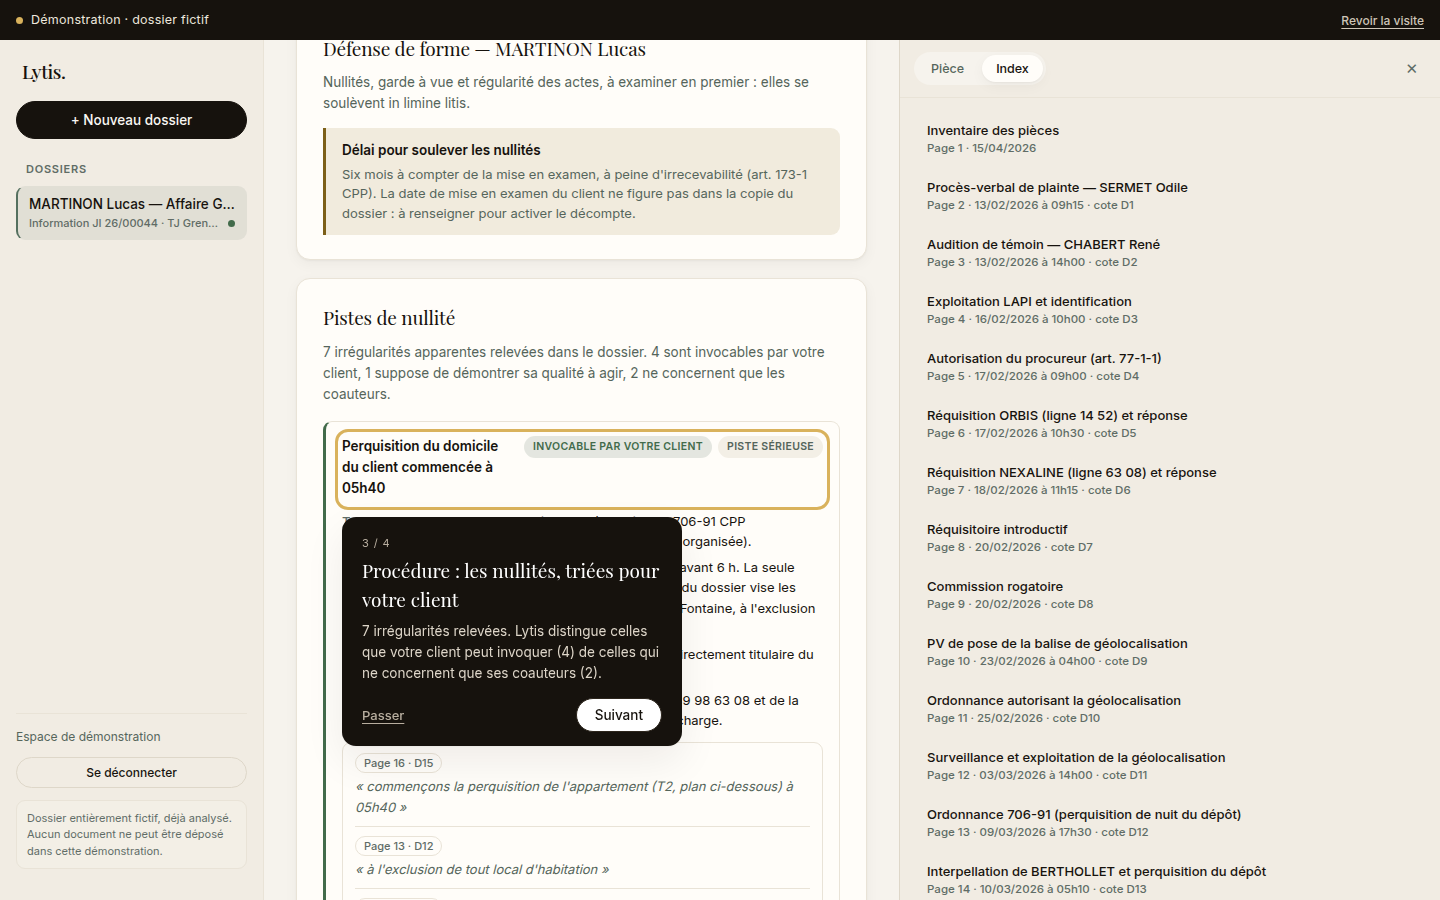
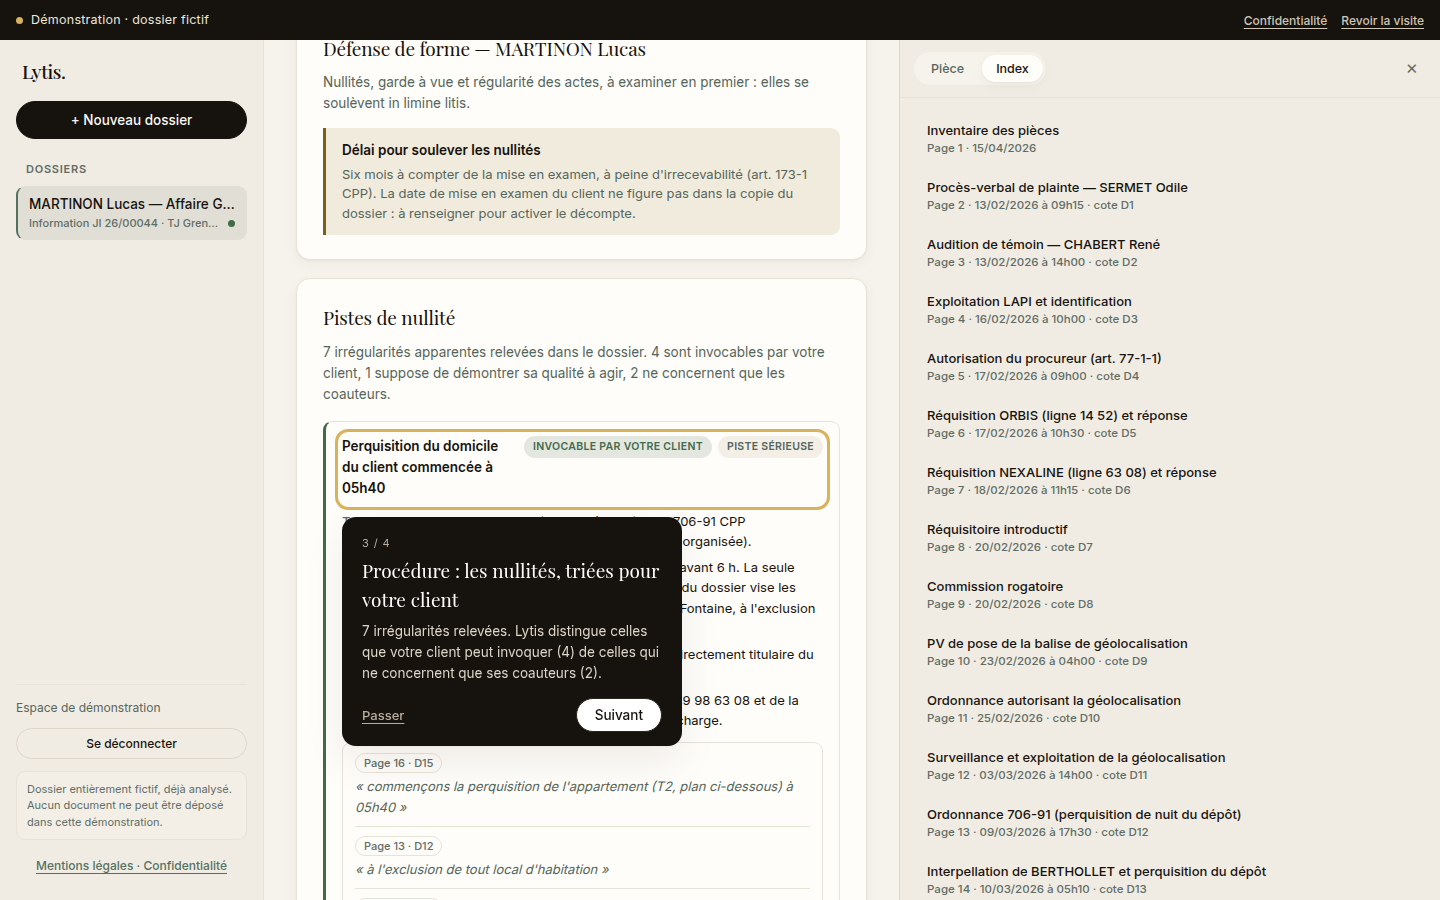
demo: mentions légales et confidentialité
Nature du site, dossier fictif, absence de conseil juridique, données
personnelles (aucune collecte, aucun cookie, journaux de l'hébergeur,
droits et CNIL), éditeur, hébergeur. L'identité de l'éditeur se
renseigne dans config.js ; les champs manquants sont affichés « à
compléter » plutôt qu'inventés.

Claude-Session: https://claude.ai/code/session_01TiRuWH22G9KjR2WhbMiB4b

Changed region(s): [[0.0, 0.7778, 0.1562, 0.9956], [0.875, 0.0, 0.9375, 0.0311]]

diff --git a/demo/site/app.js b/demo/site/app.js
@@ -708,6 +708,78 @@ document.addEventListener("click", (e) => {
   suivre("Contradiction", { titre: c.titre.slice(0, 60), phare: c.vedette ? "oui" : "non" });
 });
 
+// --- Mentions légales et confidentialité -------------------------------------
+//
+// Le texte suit l'état réel de la page : il dit « aucune mesure d'audience »
+// tant que Plausible n'est pas configuré, et signale chaque information
+// d'éditeur manquante au lieu d'en inventer une.
+
+function champEditeur(valeur) {
+  return valeur ? esc(valeur) : `<span class="a-completer">à compléter</span>`;
+}
+
+function rendreMentions() {
+  const e = CONFIG.editeur || {};
+  const h = CONFIG.hebergeur || {};
+  const mesure = CONFIG.plausible && CONFIG.plausible.domaine;
+  return `
+    <section>
+      <h3>Nature du site</h3>
+      <p>Ce site présente une démonstration d'un prototype de logiciel d'aide à l'analyse de dossiers pénaux, Lytis. Il ne propose ni service, ni vente, ni création de compte. Aucune fonction n'y traite de document réel.</p>
+    </section>
+    <section>
+      <h3>Dossier fictif</h3>
+      <p>Le dossier présenté est entièrement fictif. Les personnes, adresses, numéros de téléphone, plaques d'immatriculation et références de procédure sont inventés ; les communes citées ne servent que de décor. Toute ressemblance avec des personnes ou des affaires réelles serait fortuite.</p>
+    </section>
+    <section>
+      <h3>Absence de conseil juridique</h3>
+      <p>Les analyses affichées (pistes de nullité, contradictions, charges et éléments à décharge) illustrent le fonctionnement envisagé du logiciel. Elles ne constituent pas une consultation juridique et n'ont aucune valeur juridique. Leur appréciation revient toujours à l'avocat.</p>
+    </section>
+    <section>
+      <h3>Données personnelles</h3>
+      <ul>
+        <li><strong>Aucune collecte.</strong> Le site ne comporte ni formulaire, ni compte, ni dépôt de document : il ne recueille aucune donnée vous concernant.</li>
+        <li><strong>Aucun cookie.</strong> Votre navigateur conserve seulement l'indication que la visite guidée a déjà été vue, pour ne pas la relancer. Cette information reste sur votre appareil et n'est jamais transmise ; elle relève des traceurs de personnalisation de l'interface, dispensés de consentement.</li>
+        <li><strong>Mesure d'audience.</strong> ${mesure
+          ? "Fréquentation mesurée avec Plausible Analytics, sans cookie ni identifiant individuel : seules des statistiques agrégées sont produites (pages vues, étapes de la démonstration, campagne indiquée dans le lien)."
+          : "Aucune mesure d'audience n'est active sur ce site."}</li>
+        <li><strong>Hébergement.</strong> Comme tout hébergeur, ${esc(h.nom || "l'hébergeur")} enregistre des journaux techniques de connexion (adresse IP, date, page demandée) à des fins de sécurité et de bon fonctionnement, sur le fondement de l'intérêt légitime. L'hébergeur est établi aux États-Unis ; ces journaux sont traités dans les conditions de sa politique de confidentialité (${esc(h.site || "")}/privacy).</li>
+        <li><strong>Vos droits.</strong> Vous disposez d'un droit d'accès, de rectification, d'effacement, d'opposition et de limitation, à exercer auprès de l'éditeur : ${champEditeur(e.email)}. Vous pouvez aussi introduire une réclamation auprès de la CNIL (cnil.fr).</li>
+      </ul>
+    </section>
+    <section>
+      <h3>Éditeur</h3>
+      <dl class="mentions-identite">
+        <dt>Éditeur</dt><dd>${champEditeur(e.nom)}</dd>
+        <dt>Statut</dt><dd>${champEditeur(e.statut)}</dd>
+        <dt>Adresse</dt><dd>${champEditeur(e.adresse)}</dd>
+        <dt>Contact</dt><dd>${champEditeur(e.email)}</dd>
+        <dt>Directeur de la publication</dt><dd>${champEditeur(e.directeur)}</dd>
+      </dl>
+    </section>
+    <section>
+      <h3>Hébergeur</h3>
+      <p>${esc(h.nom || "")} — ${esc(h.adresse || "")} — ${esc(h.site || "")}</p>
+    </section>
+    <section>
+      <h3>Propriété intellectuelle</h3>
+      <p>La présentation, les textes et l'interface de cette démonstration ne peuvent être reproduits sans l'accord de l'éditeur.</p>
+    </section>`;
+}
+
+function ouvrirMentions() {
+  document.getElementById("mentions-corps").innerHTML = rendreMentions();
+  document.getElementById("mentions").hidden = false;
+  document.querySelector(".mentions-fermer").focus();
+  suivre("Mentions légales");
+}
+window.ouvrirMentions = ouvrirMentions;
+
+function fermerMentions() {
+  document.getElementById("mentions").hidden = true;
+}
+window.fermerMentions = fermerMentions;
+
 // --- Visite guidée -----------------------------------------------------------
 
 const CLE_PARCOURS = "lytis-demo-parcours-vu";
@@ -823,7 +895,8 @@ window.addEventListener("resize", () => {
 
 document.addEventListener("keydown", (e) => {
   if (e.key === "Escape") {
-    if (parcoursActif) terminerParcours(false);
+    if (!document.getElementById("mentions").hidden) fermerMentions();
+    else if (parcoursActif) terminerParcours(false);
     else fermerAvis();
   }
   if (!document.getElementById("classeur").hidden && !document.getElementById("classeur-piece").hidden) {

diff --git a/demo/site/demo.css b/demo/site/demo.css
@@ -169,3 +169,29 @@
   .journee-liste li { flex-wrap: wrap; }
   .journee-heure { min-width: 0; }
 }
+
+/* --- Mentions légales et confidentialité --- */
+.lien-mentions { display: block; margin-top: 10px; font-size: 11.5px; color: var(--texte-att-2); }
+#mentions { position: fixed; inset: 0; z-index: 70; display: flex; align-items: center; justify-content: center; padding: 16px; }
+#mentions[hidden] { display: none; }
+.mentions-voile { position: absolute; inset: 0; background: rgba(22,18,13,0.45); }
+.mentions-fenetre {
+  position: relative; width: min(680px, 100%); max-height: calc(100vh - 32px); display: flex; flex-direction: column;
+  background: var(--carte); border-radius: var(--rayon); box-shadow: var(--ombre); overflow: hidden;
+}
+.mentions-entete { display: flex; justify-content: space-between; align-items: center; gap: 12px; padding: 18px 22px; border-bottom: 1px solid var(--bordure-douce); }
+.mentions-entete h2 { margin: 0; font-size: 20px; font-weight: 400; color: var(--encre); }
+.mentions-fermer { border: none; background: none; font-size: 16px; padding: 4px 8px; color: var(--texte-att); }
+.mentions-corps { overflow-y: auto; padding: 6px 22px 22px; font-size: 13.5px; line-height: 1.6; }
+.mentions-corps h3 { font-family: 'Playfair Display', Georgia, serif; font-weight: 400; font-size: 16px; color: var(--encre); margin: 18px 0 6px; }
+.mentions-corps p { margin: 0; color: var(--texte); }
+.mentions-corps ul { margin: 0; padding-left: 18px; }
+.mentions-corps li + li { margin-top: 6px; }
+.mentions-identite { display: grid; grid-template-columns: 190px 1fr; gap: 4px 12px; margin: 0; }
+.mentions-identite dt { color: var(--texte-att-2); }
+.mentions-identite dd { margin: 0; }
+.a-completer { background: var(--alerte-voile); color: var(--alerte); font-weight: 600; font-size: 12px; padding: 1px 8px; border-radius: 999px; }
+@media (max-width: 720px) {
+  .mentions-identite { grid-template-columns: 1fr; }
+  .mentions-identite dd { margin-bottom: 6px; }
+}

diff --git a/demo/site/index.html b/demo/site/index.html
@@ -18,6 +18,7 @@
 <div id="bandeau-demo" role="note">
   <span class="bandeau-texte"><span class="bandeau-point"></span>Démonstration · dossier fictif</span>
   <span class="bandeau-actions">
+    <button type="button" class="bandeau-lien" onclick="ouvrirMentions()">Confidentialité</button>
     <button type="button" class="bandeau-lien" onclick="lancerParcours()">Revoir la visite</button>
   </span>
 </div>
@@ -37,6 +38,7 @@
       <p id="avertissement-veille">
         Dossier entièrement fictif, déjà analysé. Aucun document ne peut être déposé dans cette démonstration.
       </p>
+      <button type="button" class="lien lien-mentions" onclick="ouvrirMentions()">Mentions légales · Confidentialité</button>
     </div>
   </div>
 
@@ -67,6 +69,17 @@
        <div id="classeur-index" hidden></div>
      </div>
    </aside>
+  </div>
+</div>
+
+<div id="mentions" hidden>
+  <div class="mentions-voile" onclick="fermerMentions()"></div>
+  <div class="mentions-fenetre" role="dialog" aria-modal="true" aria-labelledby="mentions-titre">
+    <header class="mentions-entete">
+      <h2 id="mentions-titre">Mentions légales et confidentialité</h2>
+      <button type="button" class="mentions-fermer" onclick="fermerMentions()" title="Fermer">✕</button>
+    </header>
+    <div class="mentions-corps" id="mentions-corps"></div>
   </div>
 </div>
 

diff --git a/demo/site/config.js b/demo/site/config.js
@@ -8,7 +8,24 @@
 // Campagne : ajouter ?c=nom-de-campagne au lien envoyé par e-mail. La valeur
 // est transmise telle quelle à chaque évènement, jamais un identifiant de
 // destinataire.
+//
+// Éditeur : identité exigée par l'article 6 de la loi pour la confiance dans
+// l'économie numérique (LCEN) pour un site édité dans un cadre professionnel.
+// Tant qu'un champ est vide, la page « Mentions légales » l'affiche comme
+// « à compléter » : ne pas diffuser la démo largement dans cet état.
 window.LYTIS_CONFIG = {
+  editeur: {
+    nom: "",            // ex. "Antoine Zoller" ou "Lytis SAS"
+    statut: "",         // ex. "entrepreneur individuel, SIREN …" ou "projet en cours de création"
+    adresse: "",        // adresse postale (domicile ou siège)
+    email: "",          // adresse de contact, aussi pour les demandes RGPD
+    directeur: "",      // directeur de la publication (en général le même nom)
+  },
+  hebergeur: {
+    nom: "Render Services, Inc.",
+    adresse: "525 Brannan Street, Suite 300, San Francisco, CA 94107, États-Unis",
+    site: "render.com",
+  },
   plausible: {
     domaine: "",
     script: "https://plausible.io/js/script.manual.js",

diff --git a/demo/README.md b/demo/README.md
@@ -89,6 +89,14 @@ défilement horizontal sur mobile. Il régénère les captures.
 4. **Custom Domain** (par ex. `demo.lytis.legal`), puis un enregistrement CNAME chez le
    registraire du domaine vers l'adresse fournie par Render.
 
+## Mentions légales et confidentialité
+
+Accessibles depuis le bandeau (« Confidentialité ») et le bas de la barre
+latérale. L'identité de l'éditeur se renseigne dans `site/config.js`
+(`editeur`) ; tant qu'un champ est vide, la page affiche « à compléter » et
+`tools/verifier.mjs` le signale. Le paragraphe sur la mesure d'audience suit
+automatiquement la configuration de Plausible.
+
 ## Aucun lien sortant
 
 La démo ne renvoie vers aucun site : les actions indisponibles affichent « Ceci est une démonstration ».
